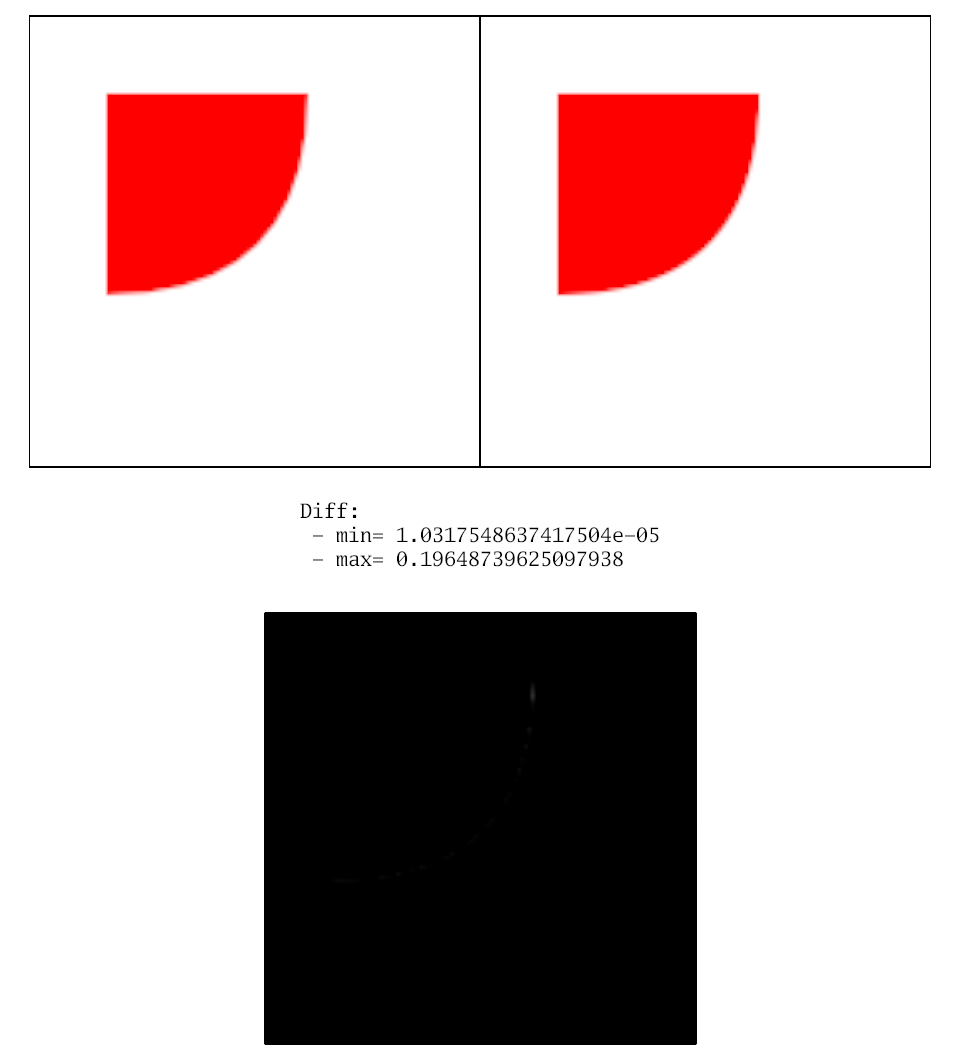
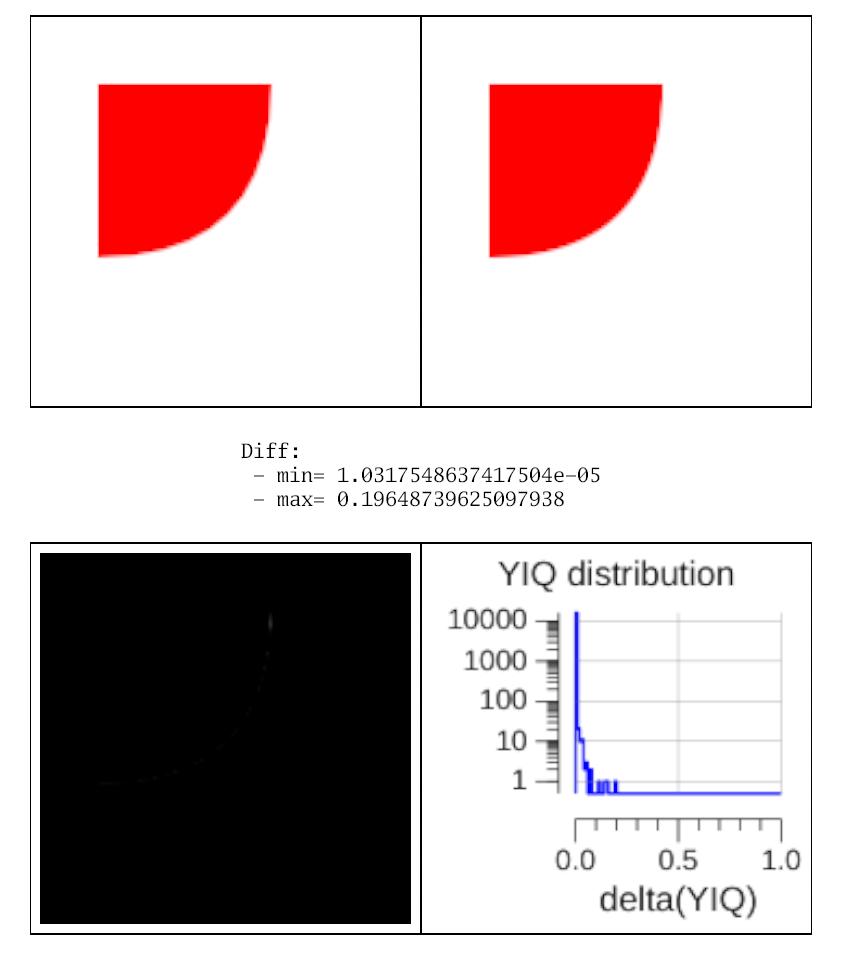
all: add display of YIQ distribution

diff --git a/gui.go b/gui.go
@@ -5,6 +5,7 @@
 package main
 
 import (
+	"bytes"
 	"fmt"
 	"image"
 	"image/color"
@@ -32,7 +33,11 @@ import (
 	"gioui.org/unit"
 	"gioui.org/widget"
 	"gioui.org/widget/material"
+	"go-hep.org/x/hep/hbook"
+	"go-hep.org/x/hep/hplot"
 	"golang.org/x/image/tiff"
+	"gonum.org/v1/plot"
+	"gonum.org/v1/plot/vg"
 )
 
 type (
@@ -53,6 +58,7 @@ type UI struct {
 	img1 image.Image
 	img2 image.Image
 	diff image.Image
+	hist image.Image
 
 	dmin float64
 	dmax float64
@@ -63,12 +69,16 @@ type UI struct {
 }
 
 func NewUI(img1, img2 image.Image) *UI {
-	diff, dmin, dmax := imageDiff(img1, img2)
+	diff, dmin, dmax, h := imageDiff(img1, img2)
+
+	dims := image.Pt(diff.Bounds().Dx(), diff.Bounds().Dy())
+	hist := histDiff(h, dims)
 
 	return &UI{
 		img1:  img1,
 		img2:  img2,
 		diff:  diff,
+		hist:  hist,
 		dmin:  dmin,
 		dmax:  dmax,
 		size:  image.Pt(width, height),
@@ -121,7 +131,7 @@ func (ui *UI) Layout(gtx C) D {
 					return list.Layout(gtx, len(imgs),
 						func(gtx C, i int) D {
 							img := imgs[i]
-							scale := ui.scale(img)
+							scale := ui.xscale(img)
 							return widget.Border{
 								Color: color.NRGBA{A: 255},
 								Width: unit.Dp(2),
@@ -153,21 +163,31 @@ func (ui *UI) Layout(gtx C) D {
 		},
 
 		func(gtx C) D {
-			return layout.UniformInset(defaultMargin).Layout(gtx, func(gtx C) D {
-				return layout.Center.Layout(gtx, func(gtx C) D {
-					return widget.Border{
-						Color: color.NRGBA{A: 255},
-						Width: unit.Dp(2),
-					}.Layout(gtx, func(gtx C) D {
-						img := ui.diff
-						scale := ui.scale(img)
-						return Image{
-							Src:   paint.NewImageOp(img),
-							Scale: scale,
-						}.Layout(gtx)
-					})
-				})
-			})
+			return layout.Center.Layout(
+				gtx,
+				func(gtx C) D {
+					imgs := []image.Image{ui.diff, ui.hist}
+					list := &layout.List{Axis: layout.Horizontal}
+					return list.Layout(gtx, len(imgs),
+						func(gtx C, i int) D {
+							img := imgs[i]
+							scale := ui.xscale(img)
+							return widget.Border{
+								Color: color.NRGBA{A: 255},
+								Width: unit.Dp(2),
+							}.Layout(gtx, func(gtx C) D {
+								return layout.UniformInset(defaultMargin).Layout(
+									gtx,
+									Image{
+										Src:   paint.NewImageOp(img),
+										Scale: scale,
+									}.Layout,
+								)
+							})
+						},
+					)
+				},
+			)
 		},
 	}
 
@@ -179,10 +199,17 @@ func (ui *UI) Layout(gtx C) D {
 	})
 }
 
-func (ui *UI) scale(img image.Image) float32 {
+func (ui *UI) xscale(img image.Image) float32 {
 	sz := 0.5 * float32(ui.size.X-100)
 	dx := float32(img.Bounds().Dx())
 	scale := dx / sz
+	return 1 / scale
+}
+
+func (ui *UI) yscale(img image.Image) float32 {
+	sz := 1. / 3. * float32(ui.size.Y)
+	dy := float32(img.Bounds().Dy())
+	scale := dy / sz
 	return 1 / scale
 }
 
@@ -295,7 +322,7 @@ func loadImage(name string) (image.Image, error) {
 	}
 }
 
-func imageDiff(v1, v2 image.Image) (image.Image, float64, float64) {
+func imageDiff(v1, v2 image.Image) (image.Image, float64, float64, *hbook.H1D) {
 	img1, ok := v1.(*image.RGBA)
 	if !ok {
 		img1 = newRGBAFrom(v1)
@@ -306,6 +333,7 @@ func imageDiff(v1, v2 image.Image) (image.Image, float64, float64) {
 		img2 = newRGBAFrom(v2)
 	}
 
+	h := hbook.NewH1D(100, 0, 1)
 	r1 := img1.Bounds()
 	r2 := img2.Bounds()
 	diff := image.NewGray16(r1.Union(r2))
@@ -323,6 +351,7 @@ func imageDiff(v1, v2 image.Image) (image.Image, float64, float64) {
 			c1 := img1.RGBAAt(x, y)
 			c2 := img2.RGBAAt(x, y)
 			vd := yiqDiff(c1, c2)
+			h.Fill(vd, 1)
 			if vd > 0 {
 				dmin = math.Min(vd, dmin)
 			}
@@ -330,7 +359,7 @@ func imageDiff(v1, v2 image.Image) (image.Image, float64, float64) {
 			diff.SetGray16(x, y, color.Gray16{Y: uint16(vd * math.MaxUint16)})
 		}
 	}
-	return diff, dmin, dmax
+	return diff, dmin, dmax, h
 }
 
 // yiqDiff returns the normalized difference between the colors of 2 pixels,
@@ -379,4 +408,40 @@ func newRGBAFrom(src image.Image) *image.RGBA {
 	)
 	draw.Draw(dst, bnds, src, image.Point{}, draw.Src)
 	return dst
+}
+
+func histDiff(h *hbook.H1D, dims image.Point) image.Image {
+	p := hplot.New()
+	p.Title.Text = "YIQ distribution"
+	p.X.Label.Text = "delta(YIQ)"
+	p.Y.Scale = plot.LogScale{}
+	p.Y.Tick.Marker = plot.LogTicks{}
+
+	hh := hplot.NewH1D(h)
+	hh.LineStyle.Color = color.RGBA{B: 255, A: 255}
+	hh.LogY = true
+	p.Add(hh, hplot.NewGrid())
+
+	x := vg.Length(dims.X)
+	y := vg.Length(dims.Y)
+	canvas, err := p.WriterTo(x, y, "png")
+	if err != nil {
+		log.Printf("could not create writer-to plot: %+v", err)
+		return nil
+	}
+
+	buf := new(bytes.Buffer)
+	_, err = canvas.WriteTo(buf)
+	if err != nil {
+		log.Printf("could not write plot: %+v", err)
+		return nil
+	}
+
+	img, err := png.Decode(buf)
+	if err != nil {
+		log.Printf("could not encode plot plot: %+v", err)
+		return nil
+	}
+
+	return img
 }
